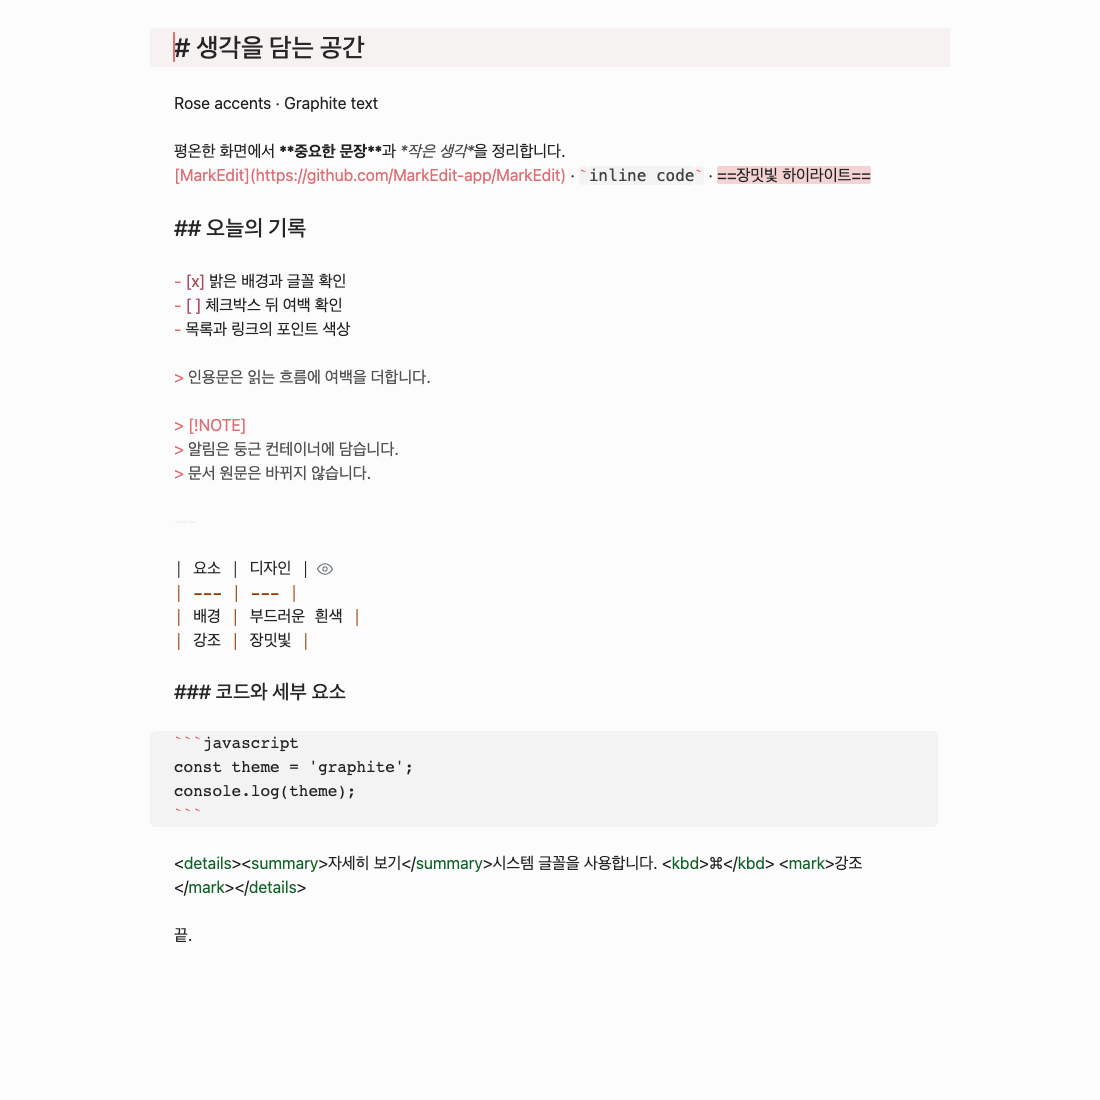
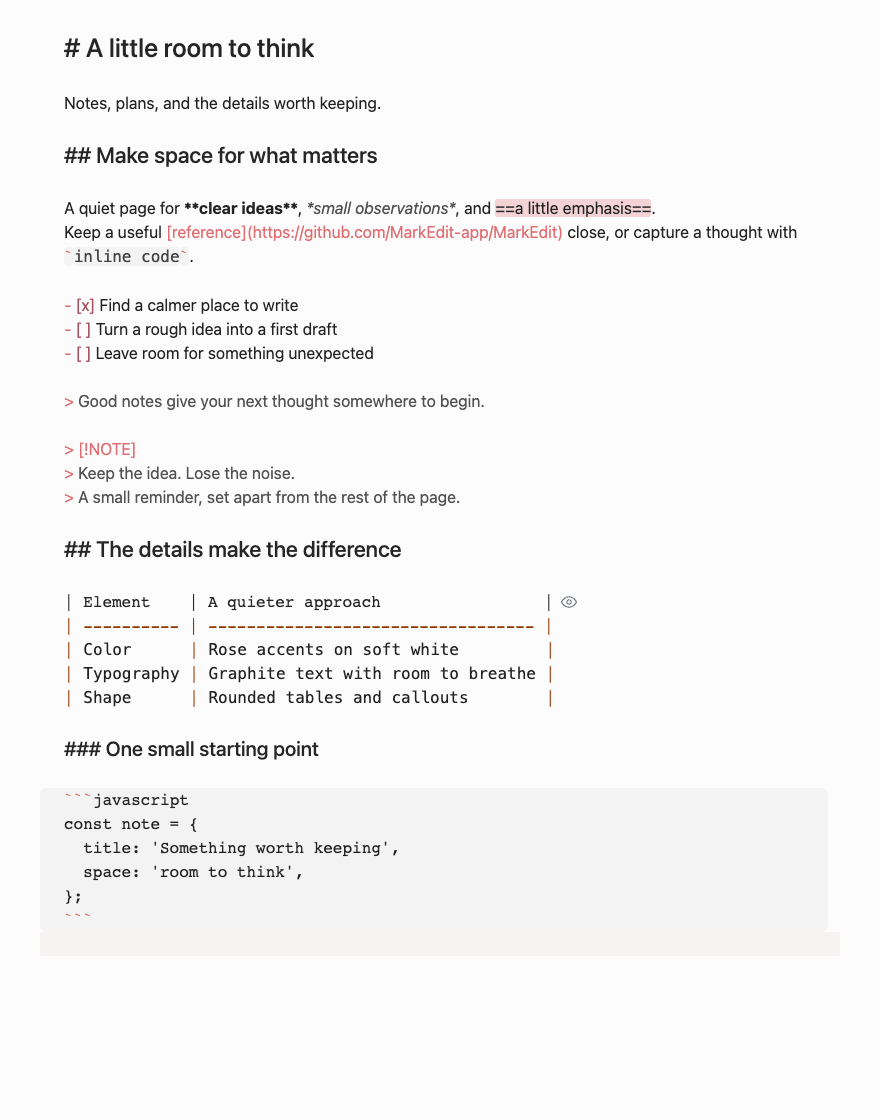
Refresh README and English theme examples

Changed region(s): [[0.0614, 0.0309, 0.9205, 0.8655], [0.5523, 0.5873, 0.6136, 0.6182]]

diff --git a/README.md b/README.md
@@ -1,29 +1,36 @@
-# MarkEdit-theme-red-graphite
+# Red Graphite for MarkEdit
 
-A light theme for [MarkEdit](https://github.com/MarkEdit-app/MarkEdit), built on [MarkEdit-theming](https://github.com/MarkEdit-app/MarkEdit-theming). Rose accents, graphite text, rounded tables and callouts, and comfortable checkbox spacing.
+A light theme for [MarkEdit](https://github.com/MarkEdit-app/MarkEdit), with rose accents, graphite text, and room to breathe. Built on [MarkEdit-theming](https://github.com/MarkEdit-app/MarkEdit-theming).
 
-<img width="344" alt="Mixed mode" src="assets/previews/mixed.png" /> <img width="344" alt="Preview mode" src="assets/previews/preview.png" />
+## A look inside
 
-> Light mode only. This is an independent project, not affiliated with or endorsed by Bear or Shiny Frog. Available in the MarkEdit Extension Registry.
+### Mixed mode
 
-## Implementation note
+Write with rose highlights, comfortable task spacing, and rounded tables and callouts.
 
-This theme was implemented with AI assistance. Despite the checks described below, it may contain overlooked bugs, incomplete styling, or compatibility issues. Please report problems through [GitHub Issues](https://github.com/unsnruu/markedit-red-graphite/issues).
+<img width="760" alt="English writing sample in Mixed mode, showing rose highlights, task checkboxes, a rounded note callout, and a table" src="assets/previews/mixed.png" />
 
-## Installation
+### Preview mode
 
-Download [`markedit-theme-red-graphite.js` from v1.0.1](https://github.com/unsnruu/markedit-red-graphite/releases/download/v1.0.1/markedit-theme-red-graphite.js). Copy the script into MarkEdit's user scripts directory and restart MarkEdit. Building this project does **not** install the theme, restart the app, or change existing files.
+Read your notes with clear headings, soft borders, and rose links.
 
-Use an isolated MarkEdit environment if you already have custom Bear CSS or companion scripts: those global styles can override this theme. To remove this theme, remove only its script and restart MarkEdit.
+<img width="760" alt="The same English sample in Preview mode, showing heading hierarchy, a blockquote, a rounded table and callout, and a code block" src="assets/previews/preview.png" />
 
-- Tested host: MarkEdit 1.37.0 CoreEditor in an isolated Chrome browser.
-- [Markdown View Modes](https://github.com/MarkEdit-app/MarkEdit-preview) 1.14.0 provides Mixed/Preview rendering. Enable table/image inline rendering there when needed.
-- [Text Highlight](https://github.com/MarkEdit-app/MarkEdit-highlight) 1.0.0 provides highlight syntax. This theme only supplies its colors; it does not add `==` parsing to Preview.
-- Native macOS installation and IME composition have not been validated by the browser tests. Styled HTML export and nested callout rendering are outside the v1 compatibility guarantee.
+These screenshots show the [English sample](test/fixture.md) in an isolated browser running MarkEdit’s editor and extensions.
+
+## Install
+
+1. Download [`markedit-theme-red-graphite.js` (v1.0.1)](https://github.com/unsnruu/markedit-red-graphite/releases/download/v1.0.1/markedit-theme-red-graphite.js).
+2. Copy it to MarkEdit’s user scripts directory.
+3. Restart MarkEdit.
+
+The theme is also listed in the MarkEdit Extension Registry. It supports light mode only.
+
+If you use custom Bear CSS or companion scripts, try the theme in a separate MarkEdit environment first. Those styles may override it. To uninstall, remove the theme’s script and restart MarkEdit.
 
 ## Settings
 
-In MarkEdit's [settings.json](https://github.com/MarkEdit-app/MarkEdit/wiki/Customization#advanced-settings):
+Add this to MarkEdit’s [settings.json](https://github.com/MarkEdit-app/MarkEdit/wiki/Customization#advanced-settings):
 
 ```json
 {
@@ -31,15 +38,27 @@ In MarkEdit's [settings.json](https://github.com/MarkEdit-app/MarkEdit/wiki/Cust
 }
 ```
 
-Use `none` to disable, then restart MarkEdit. `both` also applies only the supplied light theme; no dark theme is supplied. Color customization is documented by [MarkEdit-theming](https://github.com/MarkEdit-app/MarkEdit-theming/wiki#customization).
+To disable the theme, change `light` to `none` and restart MarkEdit. Setting it to `both` still provides only the light theme.
 
-The design uses system fonts at 16px, line height 1.68 and maximum content width 800px. It does not change tab width, document content, or editing commands.
+Want different colors? See the [color customization guide](https://github.com/MarkEdit-app/MarkEdit-theming/wiki#customization).
+
+Red Graphite uses system fonts at 16px and a maximum content width of 800px. Preview spacing follows Mixed mode as closely as possible; syntax visibility and Markdown rendering can still differ. Your tab width, document text, and editing commands stay unchanged.
+
+## Compatibility
+
+- [Markdown View Modes](https://github.com/MarkEdit-app/MarkEdit-preview) 1.14.0 provides Mixed and Preview modes. Enable its inline rendering options to show tables and images while editing.
+- [Text Highlight](https://github.com/MarkEdit-app/MarkEdit-highlight) 1.0.0 provides highlight syntax; this theme adds the colors. Preview mode does not render `==highlights==`.
+- Tested with MarkEdit 1.37.0 CoreEditor in an isolated Chrome browser. The quote fix and basic mode switching were also checked in the macOS app. IME input has not been verified. Styled HTML export and nested callouts are not covered by v1 compatibility testing.
+
+Built with AI assistance. If something looks wrong or behaves unexpectedly, please [open an issue](https://github.com/unsnruu/markedit-red-graphite/issues).
 
 ## Development
 
-Source styles are in `src/`; the entry point is `main.ts`.
+Start with `main.ts` and the styles in `src/`.
 
-With Node.js 22 and Yarn 1.22.22, start from the repository root:
+### Build
+
+Use Node.js 22 and Yarn 1.22.22. From the repository root (`dev/` in the full local project), run:
 
 ```sh
 corepack enable
@@ -48,18 +67,26 @@ yarn run check
 yarn build
 ```
 
-The build produces the single script, SHA-256, and license notices under `dist/`. The bundle contains its required license notices as well.
+You’ll find the script, SHA-256 checksum, and license notices in `dist/`. The script also includes the required license notices. Building only creates these files; installation is a separate step.
 
-For the browser integration test, install Chrome and set these environment variables to local files:
+### Browser tests
 
-- `MARKEDIT_HTML`: the installed MarkEdit application's `Contents/Resources/index.html`.
-- `MARKEDIT_PREVIEW_JS`: Markdown View Modes 1.14.0 release script.
-- `MARKEDIT_HIGHLIGHT_JS`: Text Highlight 1.0.0 release script.
+Install Chrome, then set these variables to your local resource files:
 
-Then run `yarn test`. The test uses an ephemeral Chrome profile and a loopback server. Native file/menu calls are test doubles. It checks Source/Mixed/Preview, narrow layout, light/dark cleanup, disabling, and editing/undo; it updates sample screenshots under `assets/previews/`. CI checks the build and committed `dist/` consistency; native-resource integration tests run locally.
+| Variable | File |
+| --- | --- |
+| `MARKEDIT_HTML` | MarkEdit’s `Contents/Resources/index.html` |
+| `MARKEDIT_PREVIEW_JS` | Markdown View Modes 1.14.0 release script |
+| `MARKEDIT_HIGHLIGHT_JS` | Text Highlight 1.0.0 release script |
 
-## Contribution and license
+Run `yarn test` to check editing modes, narrow layouts, theme switching, disabling, and editing/undo. It also refreshes the screenshots in `assets/previews/`.
 
-The [MarkEdit registry contributing guide](https://github.com/MarkEdit-app/extensions#contributing) governs registration. A theme entry belongs under `themes/`, uses `theme.schema.json`, and includes `colorScheme`, `colorPatterns`, a versioned JavaScript URL and its SHA-256. Registry version updates are submitted through pull requests; availability in the Extension Manager depends on acceptance.
+Tests use a temporary Chrome profile and a local server, with simulated native file and menu calls. They leave your MarkEdit files untouched. Run these tests locally; CI checks the build and verifies that committed `dist/` files match it.
 
-New implementation: [MIT](LICENSE). See [credits and provenance](CREDITS.md) for design references and bundled dependency notices. The code license does not grant rights to third-party names or designs.
+## Contributing and license
+
+For registry submissions and updates, follow the [MarkEdit contributing guide](https://github.com/MarkEdit-app/extensions#contributing). Entries go in `themes/` and use `theme.schema.json`, with `colorScheme`, `colorPatterns`, a versioned script URL, and its SHA-256. Submit updates through a pull request; Extension Manager availability depends on acceptance.
+
+The implementation is licensed under [MIT](LICENSE). See [credits and provenance](CREDITS.md) for design references and dependency notices.
+
+Red Graphite is an independent project, not affiliated with or endorsed by Bear or Shiny Frog. The code license does not grant rights to third-party names or designs.

diff --git a/test/fixture.md b/test/fixture.md
@@ -1,36 +1,35 @@
-# 생각을 담는 공간
+# A little room to think
 
-Rose accents · Graphite text
+Notes, plans, and the details worth keeping.
 
-평온한 화면에서 **중요한 문장**과 *작은 생각*을 정리합니다.
-[MarkEdit](https://github.com/MarkEdit-app/MarkEdit) · `inline code` · ==장밋빛 하이라이트==
+## Make space for what matters
 
-## 오늘의 기록
+A quiet page for **clear ideas**, *small observations*, and ==a little emphasis==.
+Keep a useful [reference](https://github.com/MarkEdit-app/MarkEdit) close, or capture a thought with `inline code`.
 
-- [x] 밝은 배경과 글꼴 확인
-- [ ] 체크박스 뒤 여백 확인
-- 목록과 링크의 포인트 색상
+- [x] Find a calmer place to write
+- [ ] Turn a rough idea into a first draft
+- [ ] Leave room for something unexpected
 
-> 인용문은 읽는 흐름에 여백을 더합니다.
+> Good notes give your next thought somewhere to begin.
 
 > [!NOTE]
-> 알림은 둥근 컨테이너에 담습니다.
-> 문서 원문은 바뀌지 않습니다.
+> Keep the idea. Lose the noise.
+> A small reminder, set apart from the rest of the page.
 
----
+## The details make the difference
 
-| 요소 | 디자인 |
-| --- | --- |
-| 배경 | 부드러운 흰색 |
-| 강조 | 장밋빛 |
+| Element    | A quieter approach                 |
+| ---------- | ---------------------------------- |
+| Color      | Rose accents on soft white         |
+| Typography | Graphite text with room to breathe |
+| Shape      | Rounded tables and callouts        |
 
-### 코드와 세부 요소
+### One small starting point
 
 ```javascript
-const theme = 'graphite';
-console.log(theme);
+const note = {
+  title: 'Something worth keeping',
+  space: 'room to think',
+};
 ```
-
-<details><summary>자세히 보기</summary>시스템 글꼴을 사용합니다. <kbd>⌘</kbd> <mark>강조</mark></details>
-
-끝.
